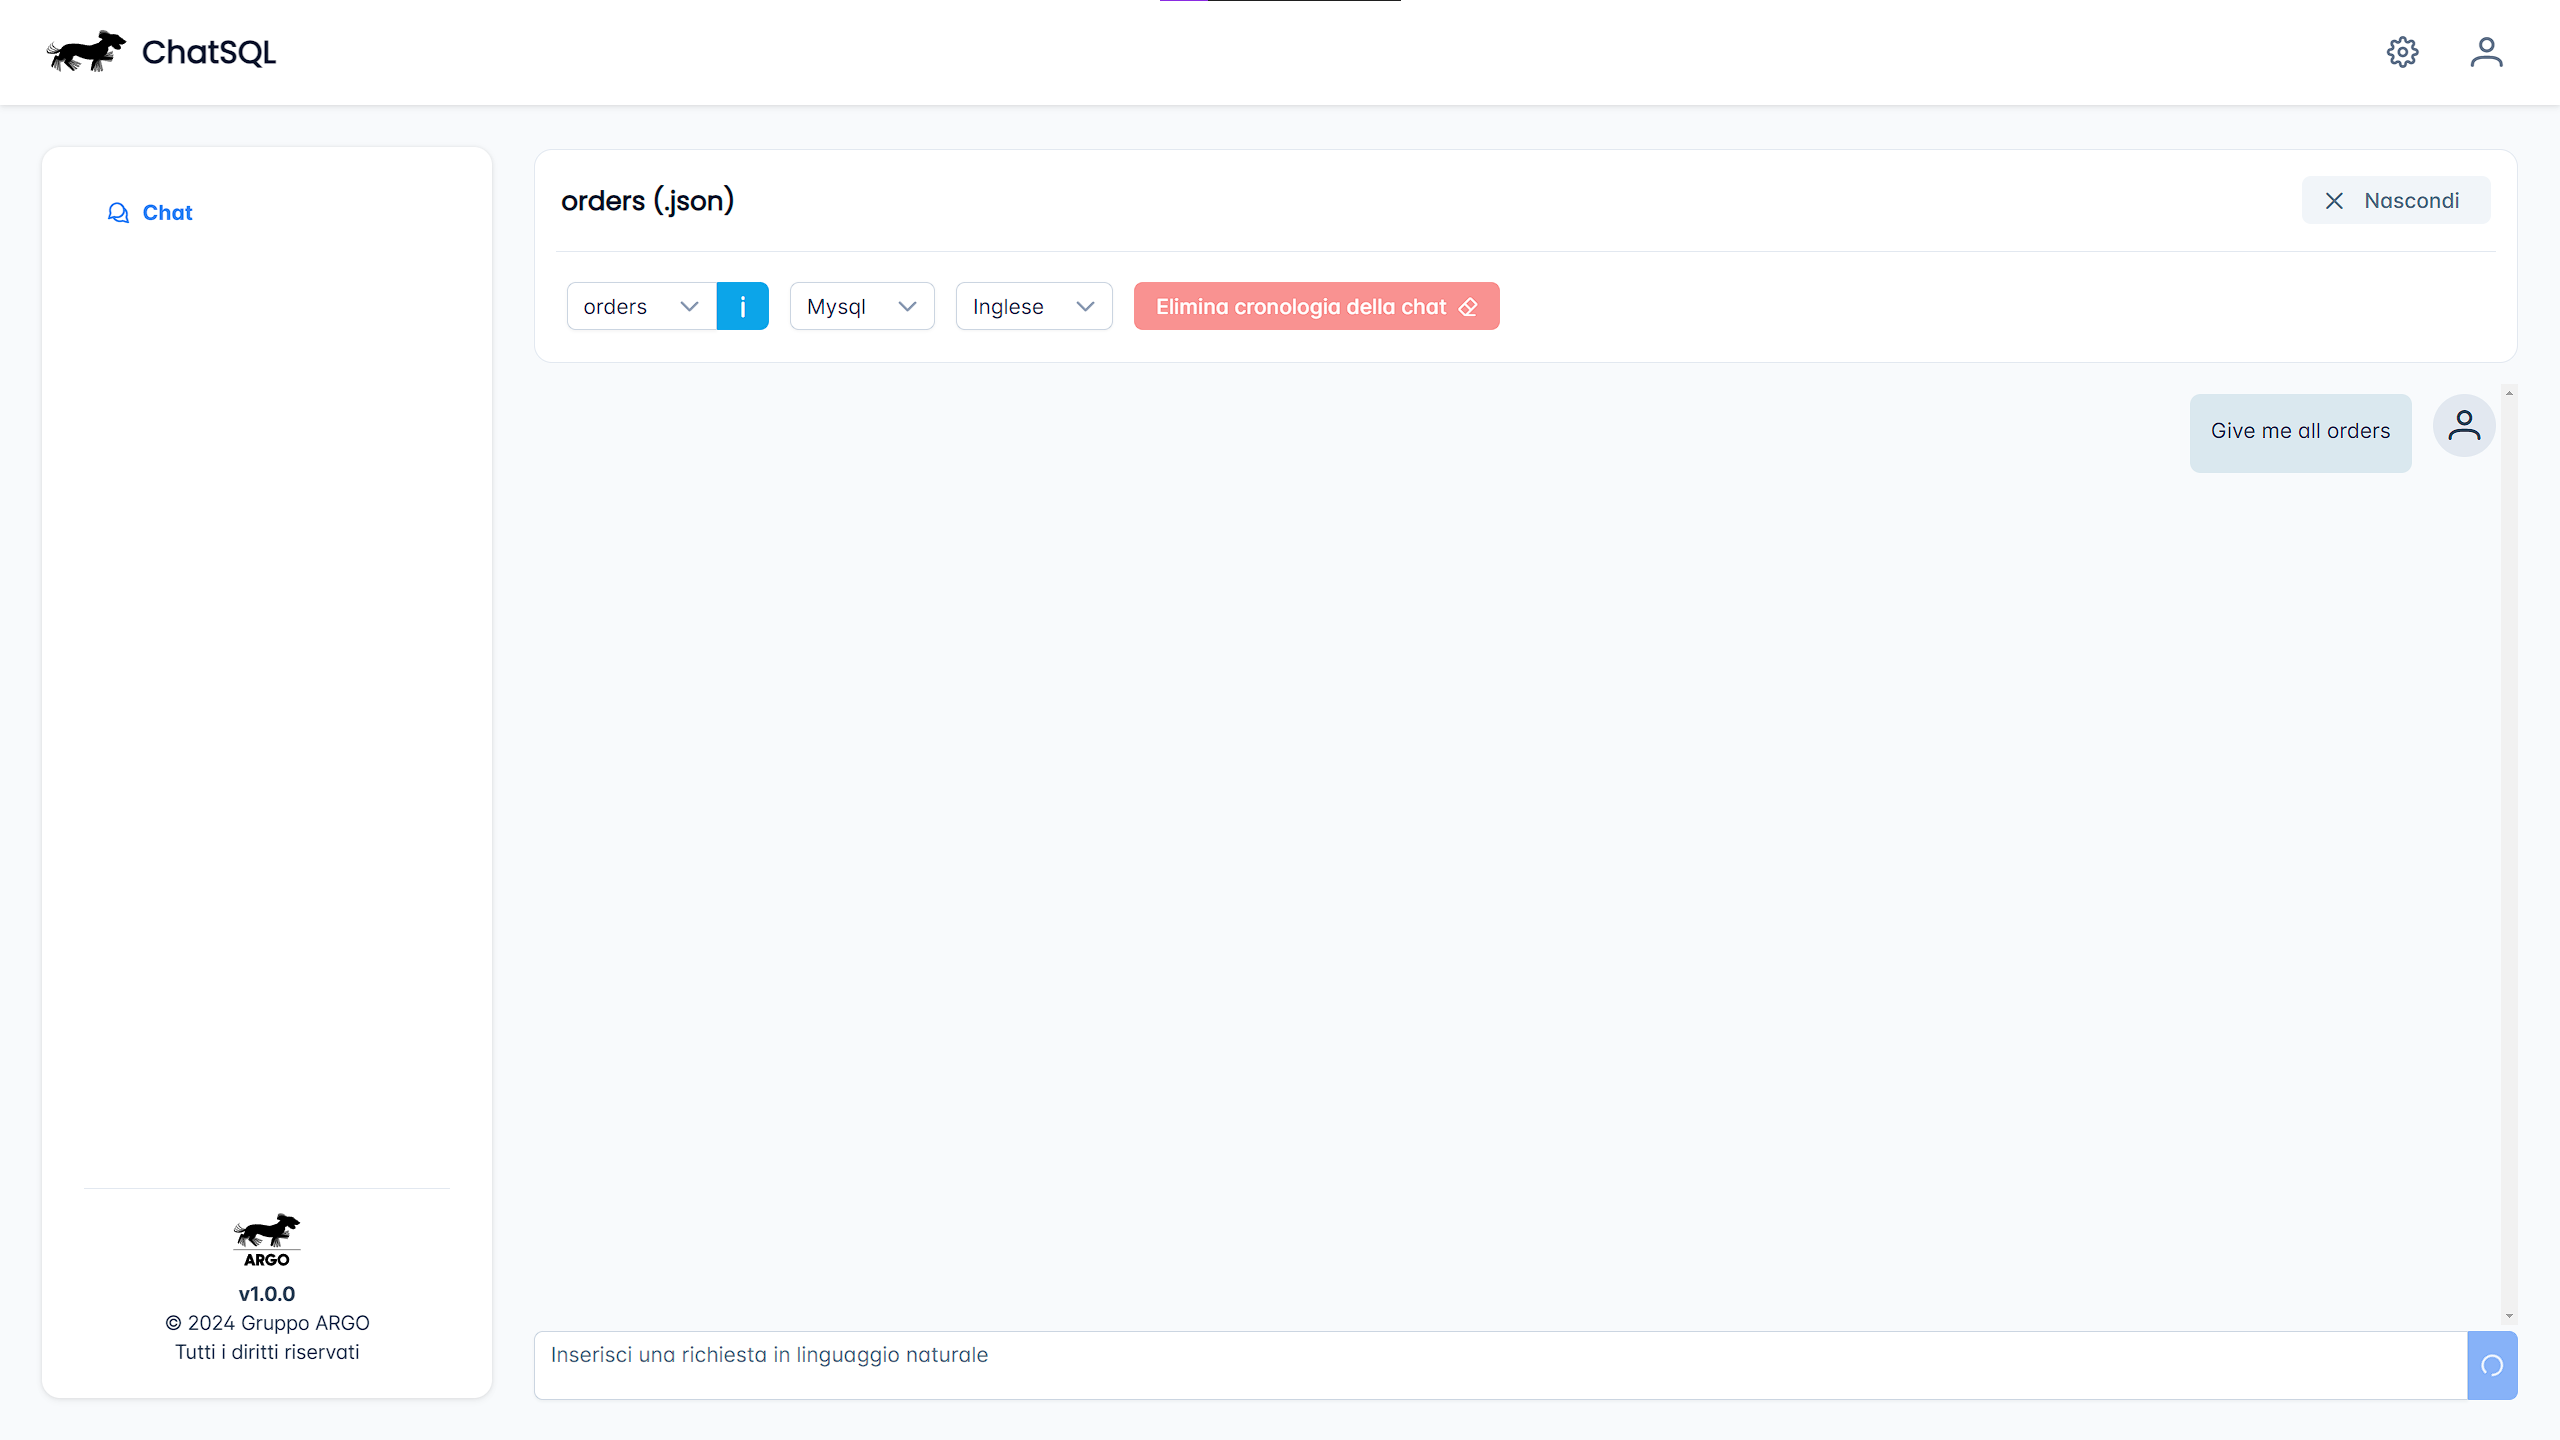
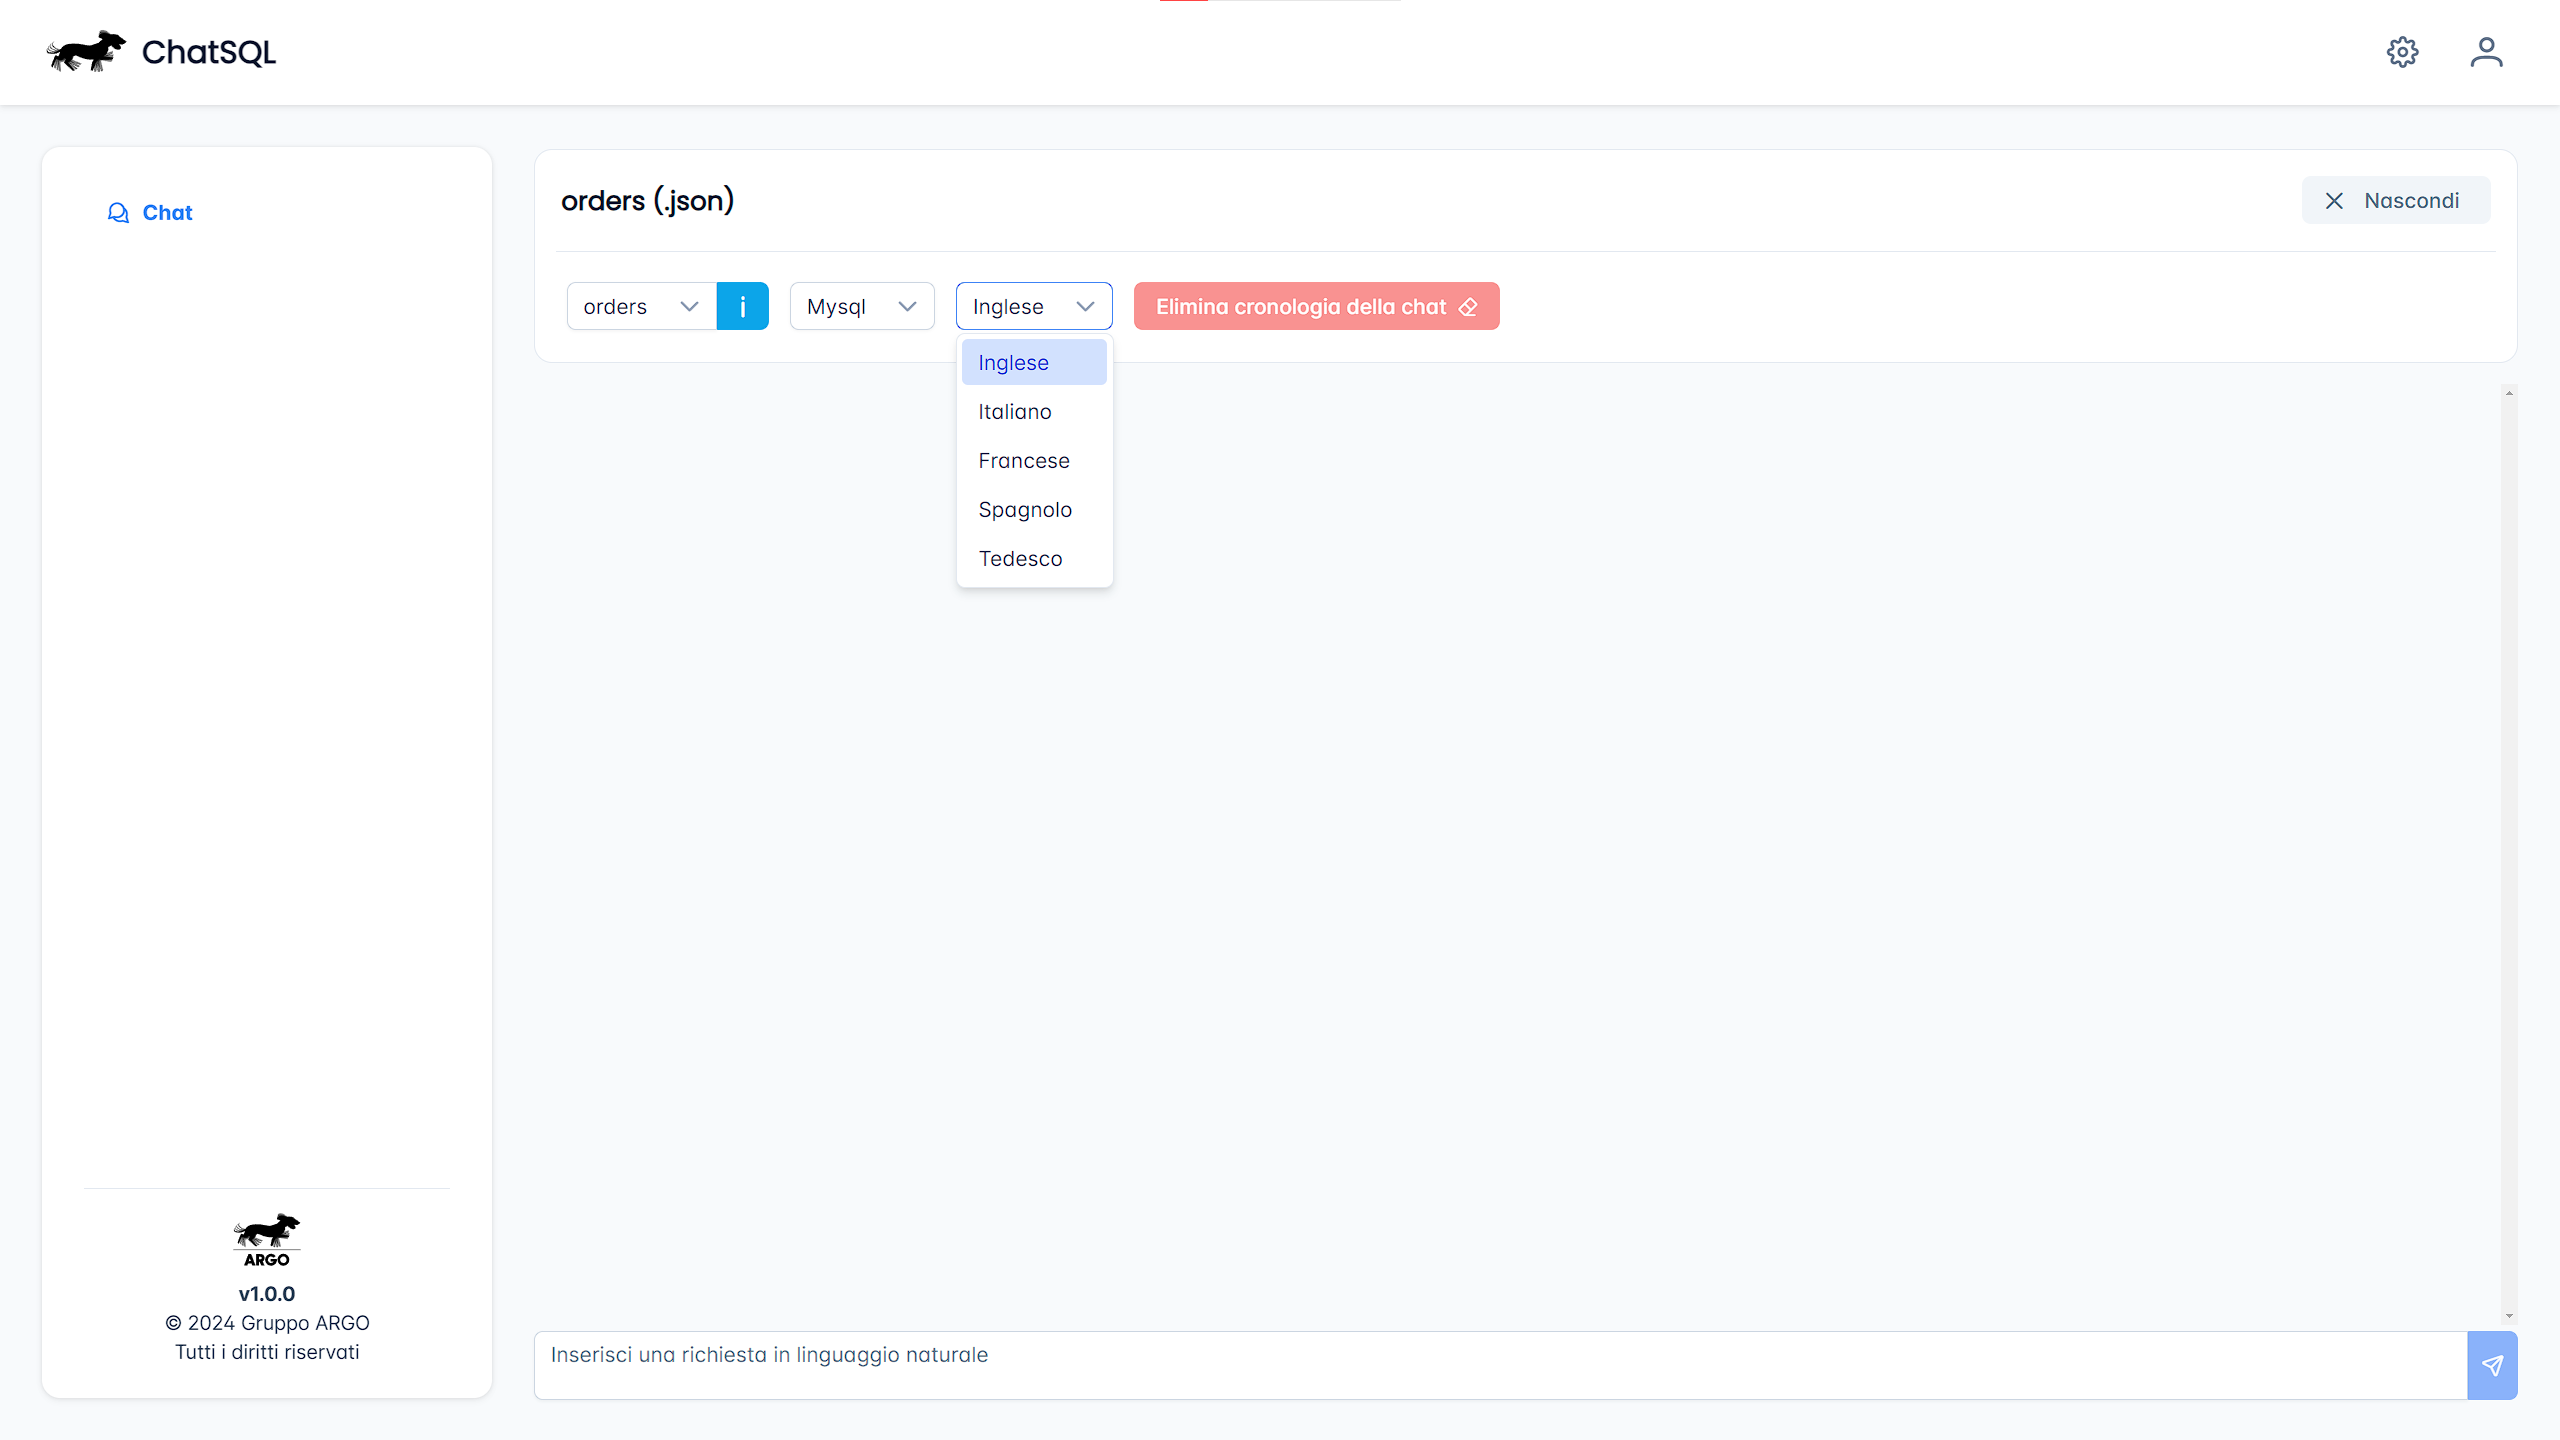
aggiunto step lingua

Changed region(s): [[0.8438, 0.25, 0.9688, 0.3438], [0.375, 0.2188, 0.4375, 0.4062]]

diff --git a/sources/documents/3_PB/ManualeUtente/sezione_utente.tex b/sources/documents/3_PB/ManualeUtente/sezione_utente.tex
@@ -37,7 +37,8 @@ Nella sezione superiore destra dell'interfaccia, cliccando sull'icona impostazio
 \begin{enumerate}
   \item Accedere alla pagina Chat selezionandola dal menu di navigazione principale;
   \item Selezionare il \glossario{dizionario dati} desiderato;
-  \item Selezionare il DBMS desiderato;
+  \item Selezionare il \glossario{DBMS desiderato};
+  \item Selezionare la lingua desiderata;
   \item Inserire una richiesta in linguaggio naturale e attendere la generazione del \glossario{prompt};
   \item Copiare il prompt generato cliccando sull'apposito pulsante in alto a destra all'interno del messaggio fornito dal ChatBOT;
   \item Incollare il prompt in un modello \glossario{LLM} a scelta (come ChatGPT) e attendere la generazione della query SQL.
@@ -53,8 +54,10 @@ Nella sezione superiore destra dell'interfaccia, cliccando sull'icona impostazio
     1 & 2 \\[6pt]
      \includegraphics[width=65mm]{assets/workflow_3.png} &   \includegraphics[width=65mm]{assets/workflow_4.png} \\
     3 & 4 \\[6pt]
-    \raisebox{0.3\height}{\includegraphics[width=65mm]{assets/workflow_5.png}} &   \includegraphics[width=65mm]{assets/workflow_6.png} \\
+   \includegraphics[width=65mm]{assets/workflow_5.png} &   \includegraphics[width=65mm]{assets/workflow_6.png} \\
     5 & 6 \\[6pt]
+    \multicolumn{2}{c}{\includegraphics[width=65mm]{assets/workflow_7.png}}\\
+    \multicolumn{2}{c}{7}
   \end{tabular}}
   \caption{Workflow per ottenere una query SQL}
 \end{figure}
